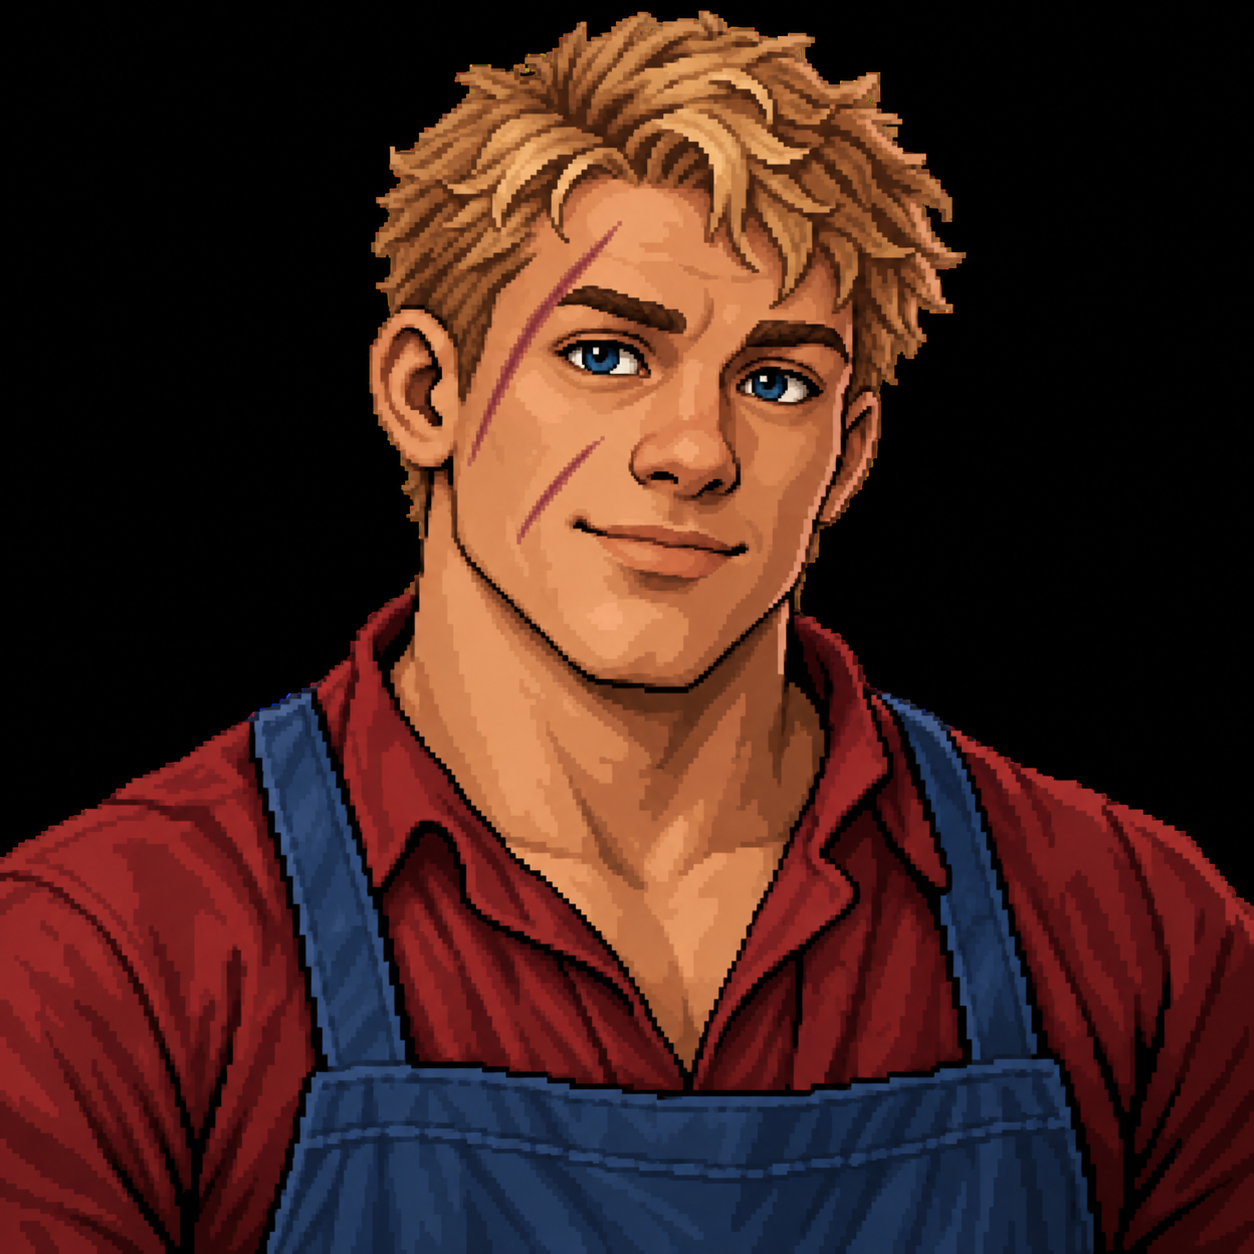
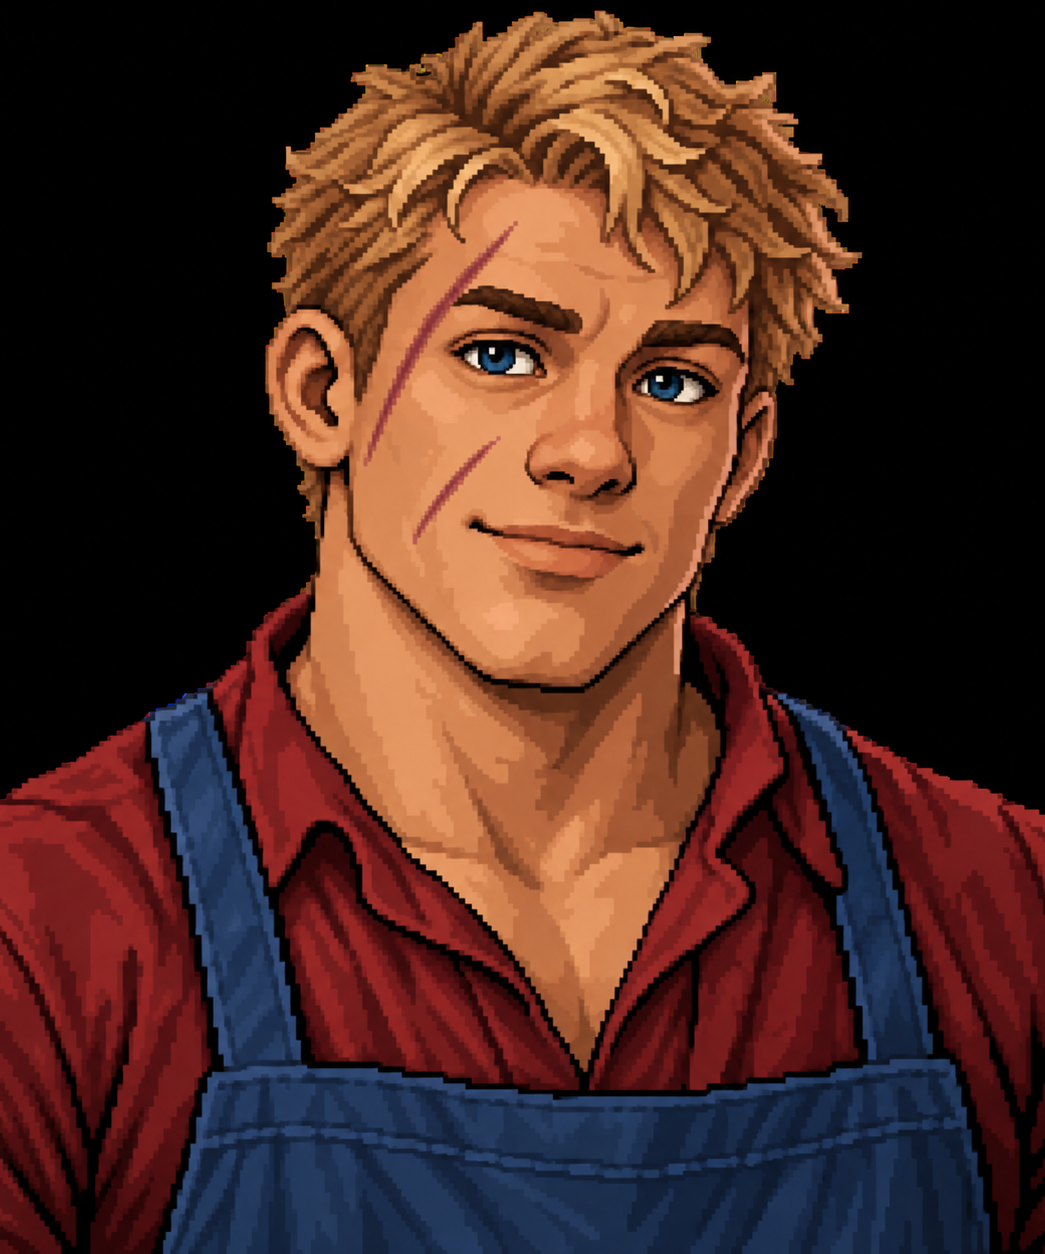
Fit Rolf's portrait to the view window and document portraits
The view window is 5:6 on screen (88x88 EGA pixels shown 1.2 times as
tall), so the square portrait left strips of the corridor view above and
below it. Crop rolf.png to 1045x1254 and draw it over the whole view, and
record the crop beside its generation prompt.

Add docs/PORTRAITS.md: the view window's size for portrait art, the legacy
head-and-body portraits, and the monster encounter close-ups.

diff --git a/src/OpenGoldBox/rolf_tour_view.cpp b/src/OpenGoldBox/rolf_tour_view.cpp
@@ -991,17 +991,12 @@ void RolfTourView::draw_scene()
     }
     const auto &state = session_->snapshot();
     // Frame 0 is Rolf's nearest pose; once he has arrived and speaks, his
-    // portrait replaces the small encounter sprite.
+    // portrait replaces the small encounter sprite. The portrait is cut to the
+    // view's 5:6 on-screen shape (see docs/PORTRAITS.md), so it fills the view.
     const bool rolf_speaking =
         !state.tour_finished && state.sprite_frame == 0 && !state.dialogue.empty();
     if (rolf_speaking && rolf_portrait_.is_valid())
-    {
-        const double side = std::min(view.size.x, view.size.y);
-        draw_texture_rect(rolf_portrait_,
-                          Rect2(view.position + (view.size - Vector2(side, side)) * .5,
-                                Vector2(side, side)),
-                          false);
-    }
+        draw_texture_rect(rolf_portrait_, view, false);
     else if (state.sprite_frame >= 0 && sprites_[state.sprite_frame].is_valid())
     {
         const auto &source = session_->sprites()[state.sprite_frame];

diff --git a/docs/PORTRAITS.md b/docs/PORTRAITS.md
@@ -1,0 +1,170 @@
+# Portraits in the view window
+
+The view window is the 3D scene panel in the exploration screen
+(`RolfTourView`). Beside the corridor view it shows three kinds of picture:
+
+- complete NPC portraits, such as Rolf's;
+- the original game's head-and-body portraits;
+- the animated monster close-ups shown before an encounter's combat.
+
+This document gives the window's size for anyone making portrait art, and
+describes how each kind of picture reaches the screen.
+
+Character portraits in creation, the party panel and the pool are a separate
+system. They are square 1254x1254 PNGs in `art/portraits/`, described in
+[CHARACTER-CREATION.md](CHARACTER-CREATION.md) and
+`art/portraits/README.md`.
+
+## Size of the view window
+
+The original view is **88x88 EGA pixels**. DOS displayed those pixels 6/5 as
+tall as wide, so the window keeps that shape on screen: **88 wide by 105.6
+tall, a 5:6 (width:height) rectangle**.
+
+`RolfTourView::layout()` sizes the panel as follows:
+
+```text
+view_height = min(main_width * 0.625, window_height - 410)   (490 while shopping)
+view_width  = view_height / 1.2
+```
+
+`draw_scene()` then fits the 88x88 view into that panel with a continuous
+scale and nearest filtering. At 1920x1080 the window is about 558x670 screen
+pixels.
+
+**Make view-window portraits 5:6.** The standard size is **1045x1254**. It is
+the full height of a 1254x1254 generated square, with 104 px trimmed from the
+left and 105 px from the right. It also gives about twice the resolution the
+window needs at 1080p. Any other 5:6 size also works; the picture is stretched
+to exactly fill the window.
+
+A square image does not fit. Scaled to the window's width, a square leaves
+strips of the corridor view visible above and below it. That is why Rolf's
+portrait was cropped.
+
+Image generators usually produce squares. When you generate one:
+
+- Compose the subject in the middle five-sixths of the width.
+- Crop it to 1045x1254.
+- Record the crop next to the prompt, as `art/portraits/NPCs/prompts.json`
+  does, so that regenerating the image does not bring the square back.
+
+## Complete NPC portraits
+
+This kind of portrait is new to OpenGoldBox. Rolf's is the first.
+
+| Item | Location |
+| --- | --- |
+| Source | `art/portraits/NPCs/rolf.png` (1045x1254 RGB) |
+| Name-to-file map | `art/portraits/NPCs/portraits.json` (no code reads it yet) |
+| Generation prompts, style reference and crop | `art/portraits/NPCs/prompts.json` |
+| Install rule | `src/OpenGoldBox/CMakeLists.txt` copies the file to `godot/bin/portraits/NPCs/rolf.png` |
+| Loaded by | `RolfTourView::_ready()`, from `res://bin/portraits/NPCs/rolf.png` |
+
+`draw_scene()` draws the portrait over the whole view rectangle. It is not
+stretched 1.2 again, because the art is already made in the window's on-screen
+shape.
+
+The portrait appears when Rolf has walked up to the party and speaks. In
+tour-state terms, that is `sprite_frame == 0` (his nearest sprite pose) with
+dialogue showing and the tour not finished. At every other moment the small
+encounter sprite is drawn instead.
+
+For now each NPC portrait needs its own install rule and loading code. Add a
+general table only once a second NPC needs one.
+
+## Heads and bodies (legacy)
+
+The original game builds portraits from two parts stacked vertically:
+
+- a **head**, 88x40 pixels, from `HEAD1..8.DAX`;
+- a **body**, 88x48 pixels, from `BODY1..8.DAX`.
+
+The head's 40 rows sit directly on top of the body's 48 rows, with no overlap,
+to make one 88x88 picture. That picture is the full view window and gets the
+same 1.2 vertical stretch as the corridor view. Each part is a 16-color EGA
+picture record, described in [graphics-format.md](graphics-format.md).
+
+These parts are **being retired**. New art for the view window should be
+complete 5:6 portraits, like Rolf's. The parts are still used in two places.
+
+### Original story portraits in the view window
+
+The original scripts show a picture in the view with ECL host op 14
+(`phlan_session.cpp`).
+
+- If variable `0x6DE1` is 255, the op shows a complete `PIC` picture from the
+  area.
+- Otherwise `0x6DE1` names the head and the op's argument names the body. The
+  session stacks them into one 88x88 image.
+
+Each area loads its own archives (`rolf_tour.cpp`). The town uses
+`HEAD3`/`BODY3`/`PIC3`, and the Slums use `HEAD2`/`BODY2`/`PIC2`.
+
+When a character from the original story gets a complete portrait, draw it in
+place of that head-and-body picture, as Rolf's replaces his sprite.
+
+### Player character appearance
+
+`CharacterAppearance` (`character_art.h`) still stores `portrait_head` and
+`portrait_body`. Ids 0-255 are original parts. Ids 256-265 are the extra
+OpenGoldBox heads for Gnome, Orc, Goliath, Tiefling and Dragonborn:
+
+- Their source PNGs are in `data/art/portraits/`.
+- `prepare_portrait_head()` shrinks each one to 88x40.
+- `fit_neck()` shifts and resizes its bottom rows to meet the neck of an
+  original body.
+
+Character creation no longer offers these parts. Characters use the complete
+`appearance.portrait` PNG instead. `CharacterArt::portrait()` still stacks the
+parts into an 88x88 image. That image is only a fallback in the combat roster,
+used when a character has no loadable complete portrait.
+
+The fields remain in saves for compatibility. Remove them, with a save-format
+migration, once nothing reads them.
+
+The small combat icons use their own parts: `CHEAD`/`CBODY`, 24 pixels wide,
+with the head drawn over the body. They are not portraits and are not being
+retired.
+
+## Monster encounter close-ups
+
+An encounter shows the monster in two stages.
+
+**1. Approach sprite.** The script's `SETUP MONSTER sprite, distance, picture`
+(ECL host op 12) loads three `SPRIT` sprites. They are separate near, middle
+and far drawings, not animation frames. The session shows the one for the
+given distance. `draw_scene()` draws it centered and resting on the bottom of
+the view, at the view's pixel scale. Palette index 0 is transparent.
+
+**2. Close-up.** The op's third operand names a `PIC` animation record. When
+the encounter reaches COMBAT and that record exists, the session raises
+`showing_monster_picture` and holds combat back (`pending_encounter()` is
+empty). The view:
+
+- builds one texture per frame (`sync_monster_picture()`);
+- draws the current frame over the whole 88x88 view, with the same 1.2
+  stretch, and draws nothing else on top;
+- starts combat when the player presses any key.
+
+A `PIC` animation record holds a frame count, then for each frame a 32-bit
+delay and one EGA picture. All frames are 88x88 and opaque:
+
+- Frame 0 is a complete picture.
+- Every later frame is an XOR delta against **frame 0**, not against the
+  previous frame.
+
+`decode_ega_animation()` in `formats.cpp` reads the record.
+
+Delays count ticks of the PC timer, 18.2 per second. `current_monster_frame()`
+loops through the frames by their delays and skips frames with zero delay. The
+Slums orc, `PIC2` record 4, has four frames with delays 15, 0, 7 and 0. It
+holds its ready pose for about 0.82 s and its strike for about 0.38 s, over and
+over.
+
+Only the Slums load animations today (`PIC2.DAX`). No table maps monsters to
+pictures: the script's operand is the only link. Records 1 (treasure chest)
+and 29 (campfire) appear in every `PIC` archive.
+
+Replacement close-up art follows the view-window size above: 5:6 frames that
+fill the window. Every frame must be the same size.
